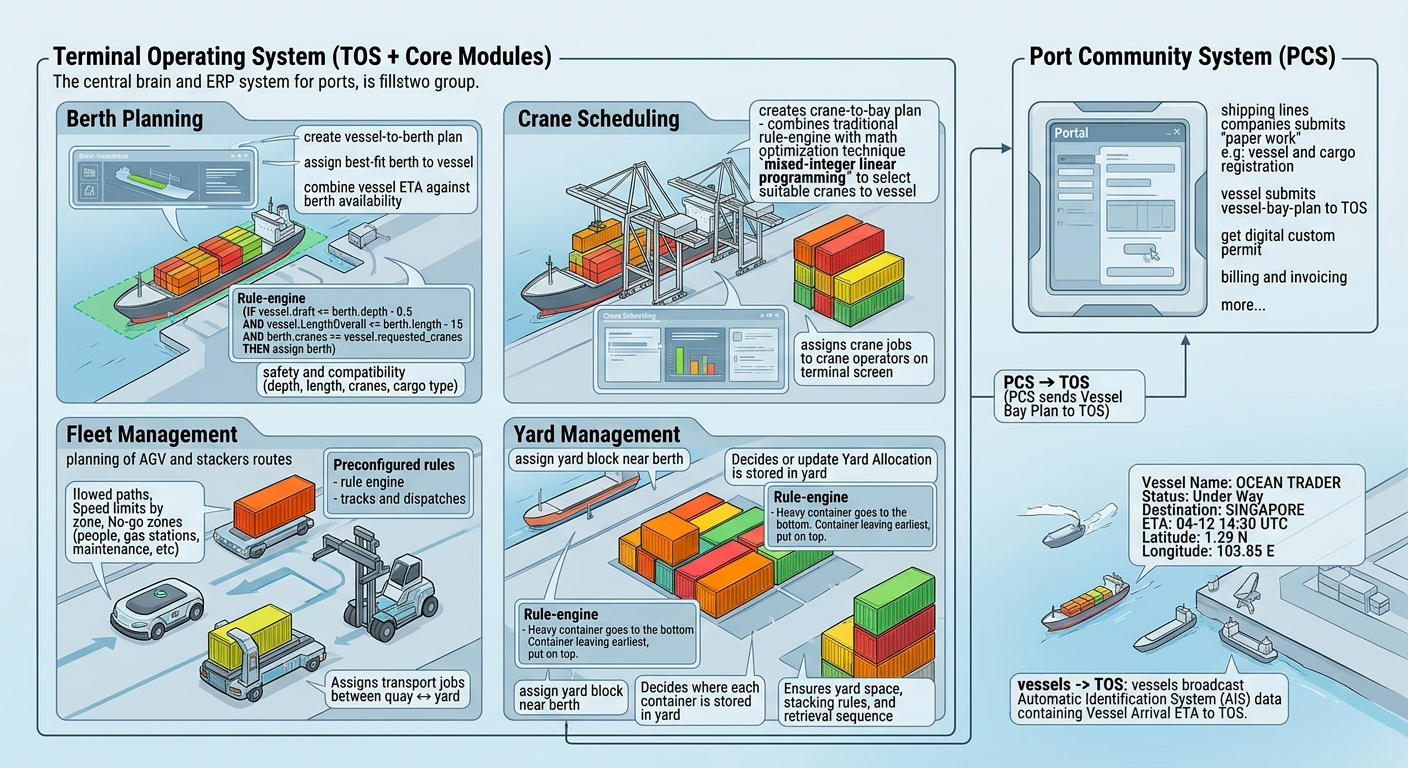
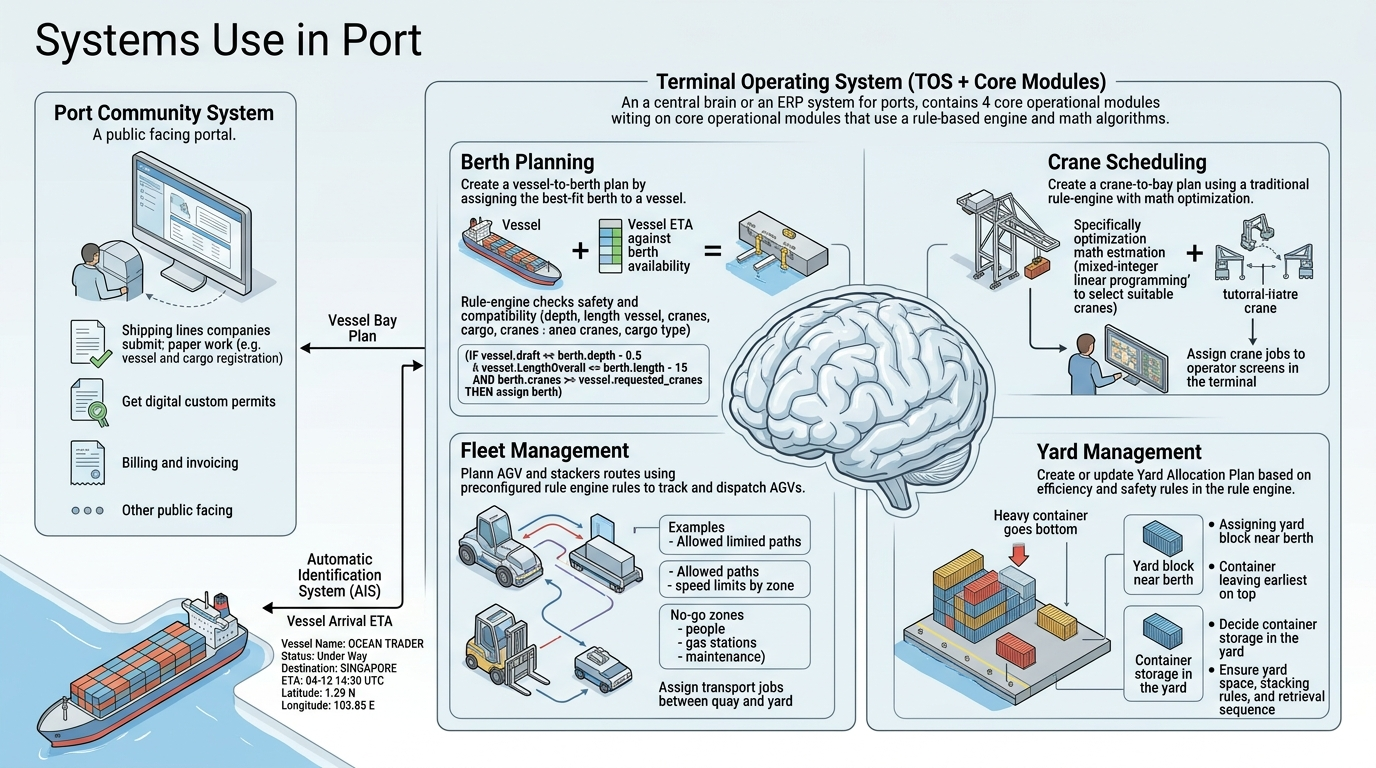
fix frontend vessel late animaton

diff --git a/src/backend/src/agents/fleet-market/FleetMarketAuctionAgent.ts b/src/backend/src/agents/fleet-market/FleetMarketAuctionAgent.ts
@@ -196,7 +196,14 @@ async function fleetMarketAnalyze(
   let auctionResult: AuctionResult
   try {
     const jsonMatch = content.match(/\{[\s\S]*\}/)
-    auctionResult = JSON.parse(jsonMatch?.[0] ?? content) as AuctionResult
+    const parsed = JSON.parse(jsonMatch?.[0] ?? content) as Partial<AuctionResult>
+    // Always force the discriminator type — the LLM occasionally omits it,
+    // which causes the frontend's `socketClient.on('fleetmarket-vessel-late', …)`
+    // subscriber to never fire and the vessel-late animation to never trigger.
+    auctionResult = {
+      type: 'fleetmarket-vessel-late',
+      'auction-result': parsed['auction-result'] ?? [],
+    }
   } catch {
     // Fallback: pick top 2 AGV and top 2 Stacker by bid score
     const agvBids = state.bids.filter((b) => b.type === 'agv').sort((a, b) => b.bid - a.bid)

diff --git a/src/backend/src/bot.ts b/src/backend/src/bot.ts
@@ -244,7 +244,14 @@ class TeamsBot extends ActivityHandler {
     }
 
     if (approved && auctionResultForBroadcast) {
-      const payload = { ...auctionResultForBroadcast };
+      // Force the discriminator `type` field — the frontend MainPage subscribes
+      // via socketClient.on('fleetmarket-vessel-late', …); without this exact
+      // type the WS message arrives but no handler fires and the vessel-late
+      // animation never triggers.
+      const payload = {
+        ...auctionResultForBroadcast,
+        type: 'fleetmarket-vessel-late' as const,
+      };
       console.log('[Bot][HITL] broadcasting vessel-late payload:', JSON.stringify(payload));
       broadcast(payload);
       await context.sendActivity(

diff --git a/docs/slides/systems-in-port/prompt.md b/docs/slides/systems-in-port/prompt.md
@@ -1,6 +1,6 @@
 
 
-## style guide
+## style guide OLD
 
 color: Primary Palette (Monochromatic Lean): The image is dominated by cool tones to create a "clean," high-tech, and professional atmosphere.
 High-Contrast Accents: To prevent the image from looking flat, vibrant "pop" colors are used for containers orange, red, yellow, and green.
@@ -12,10 +12,20 @@ Lighting: Bright, high-key, and sterile.
 Finish: Clean surfaces, crisp edges, and sophisticated tech-design.
 
 
+## style guide
+
+Style: The style is a clean, technical and innovative
+Atmosphere: 8k resolution, 16:9, architectural concept art style., clinical, and innovative.
+Visuals: High-tech futuristic architectural details balanced with a polished, professional slightly cartoonish yet realistic.
+Lighting: Bright, high-key, and sterile.
+Finish: Clean surfaces, crisp edges, and sophisticated tech-design.
+
+
 ## task
 
 * Generate infographics for `systems use in port`.
 * ensure TOS and its 4 modules are grouped as 1 group. And PCS is a separate group.
+* ensure graphics are not `duplicated`
 * ensure each modules is distinctively separated.
 * Do not include `title`
 

diff --git a/docs/slides/overview/prompt.md b/docs/slides/overview/prompt.md
@@ -27,7 +27,7 @@ Finish: Clean surfaces, crisp edges, and sophisticated tech-design.
 ## overview
 1 Challenge Recap & Assumptions
 2 Anatomy of a Port
-3 What is Terminal OS
+3 Systems ued in a Port
 4 Problems with Mainstream Terminal OS
 5 Current vs Futre Business State with Salacia
 6 Salacia – The Agentic Terminal OS 
